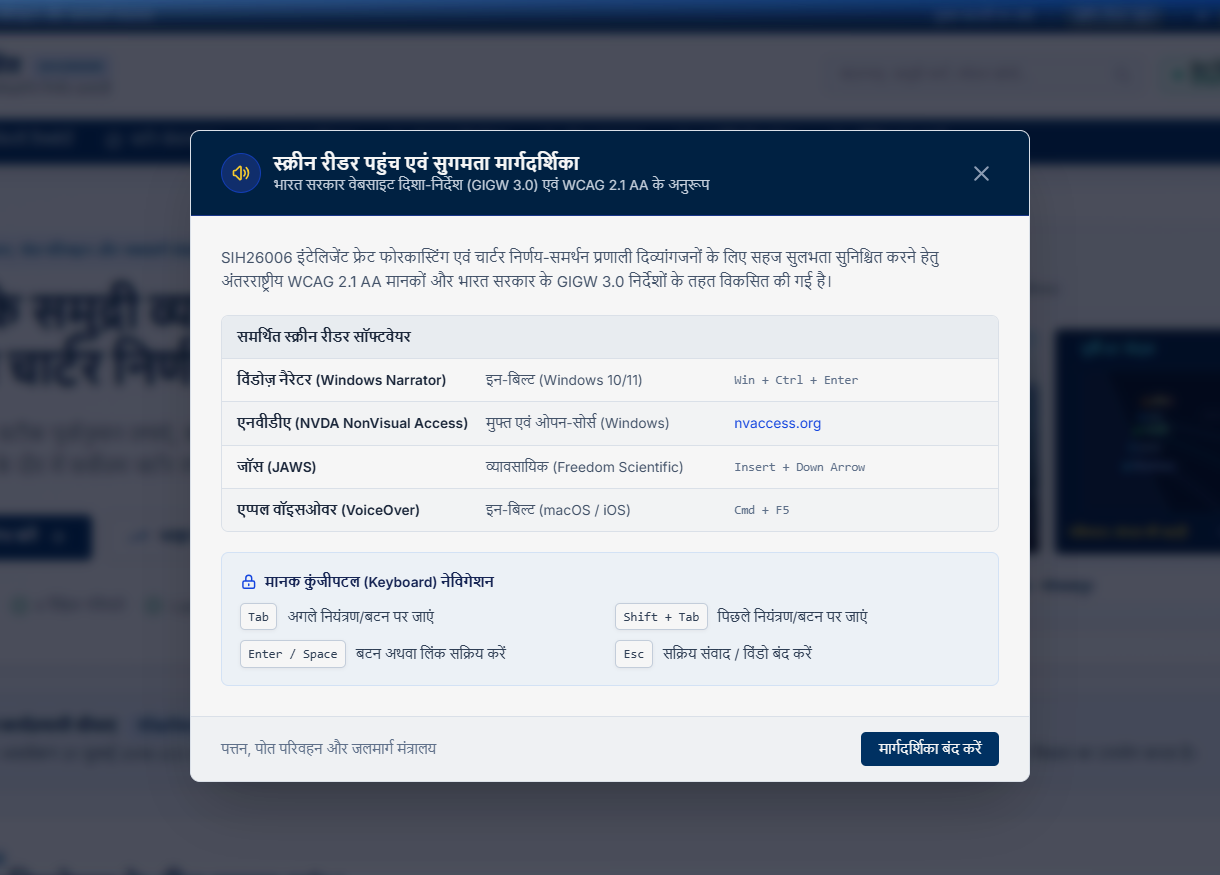
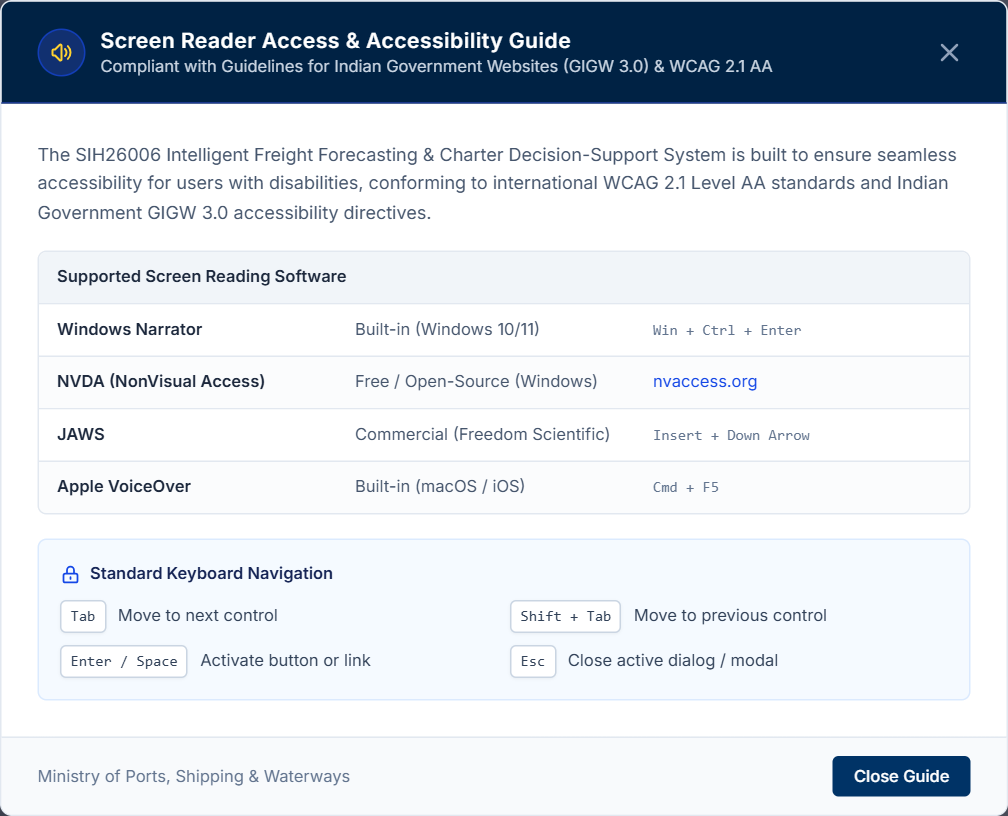
docs: update README with Component Risk Decomposition details and refresh English screenshots

diff --git a/README.md b/README.md
@@ -257,14 +257,31 @@ Engineering evaluation across standard bulk carrier classes against active trade
 
 ---
 
-### 9. Operational Risk Engine & Maritime Alerts
-Multi-factor risk scorecard tracking threats to shipping schedule integrity.
+### 9. Operational Risk Engine & Active Maritime Alert Simulator
+Multi-factor risk scorecard tracking threats to shipping schedule integrity with live crisis scenario injection and mathematical component sensitivity decomposition.
 
-![Operational Risk Engine](docs/screenshots/risk_alerts.png)
+![Operational Risk Engine & Active Maritime Alert Simulator](docs/screenshots/risk_alerts.png)
 
-#### Composite Risk Evaluation:
-- 6 risk pillars: Market Volatility, Port Congestion, Bay of Bengal Cyclone/Monsoon Hazard, Fleet Tonnage Supply, Bunker Fuel Escalation, and Chokepoint Geopolitics.
-- Actionable operational alerts with severity tags (*Critical*, *Moderate*, *Normal*) and mitigation protocols.
+#### Operational Crisis & Scenario Control:
+- **Interactive Crisis Simulator:** Test system resilience and procurement reactions across 5 live operational scenarios:
+  1. **Baseline / Normal Operations:** Standard seasonal conditions with baseline tariffs.
+  2. **Bay of Bengal Cyclone Warning (Category 4):** Simulates terminal shutdown at Paradip/Dhamra, pre-berthing wait spikes (+7.5 days), and storm demurrage.
+  3. **Bunker Fuel Shock (+35%):** VLSFO price spike to $820/MT, re-evaluating time charter hire economics.
+  4. **Port Congestion Crisis:** Severe vessel bunching at East Coast coal berths with 12-day pre-berthing queues.
+  5. **Red Sea / Chokepoint Escalation:** Cape of Good Hope diversion (+14 sailing days), shifting optimal contract choice toward COA structures.
+- **Live Active Alerts Banner:** Dynamic contextual alert stream with automated decision rules and direct in-page anchor navigation to the Risk Registry.
+
+#### Component Risk Decomposition & Perturbation Contribution:
+- **Mathematical Sensitivity Methodology ($\pm 1\sigma$):** Component-level risk attributions are computed strictly from partial derivatives of risk-adjusted landed cost under $\pm 1\sigma$ simulation perturbations — **zero hand-tuned or arbitrary weights**.
+- **6 Orthogonal Monitored Risk Vectors:**
+  1. **Market Freight Risk ($38\%$ typical contribution):** Evaluated from 20-day realized volatility annualized against its 7-year historical distribution.
+  2. **Port Congestion Risk:** Monitored against historical P90 pre-berthing waiting telemetry at East Coast receiving terminals (Paradip, Dhamra, Haldia, Visakhapatnam).
+  3. **Weather & Cyclone Hazard:** Based on Bay of Bengal IMD cyclone track records and seasonal monsoon stoppage climatology (June–September monsoon and October–November cyclone transition).
+  4. **Vessel Availability Risk:** Tonnage supply tightness across Capesize, Panamax, and Supramax vessel classes.
+  5. **Route & Corridor Economics:** Bunkering hub spreads (Singapore / Fujairah) and canal detour penalties.
+  6. **Demand Volatility:** Macro raw material import velocity and plant inventory depletion rates.
+- **Explainable Decision Rules ("What Conditions Would Change This Risk Verdict?"):**
+  - Identifies transparent operational triggers required to lower the composite risk score (e.g., market volatility reverting to 12-month median, expected port wait dropping below 2.8 days, or shifting laycan outside the October–December cyclone window).
 
 ---
 
